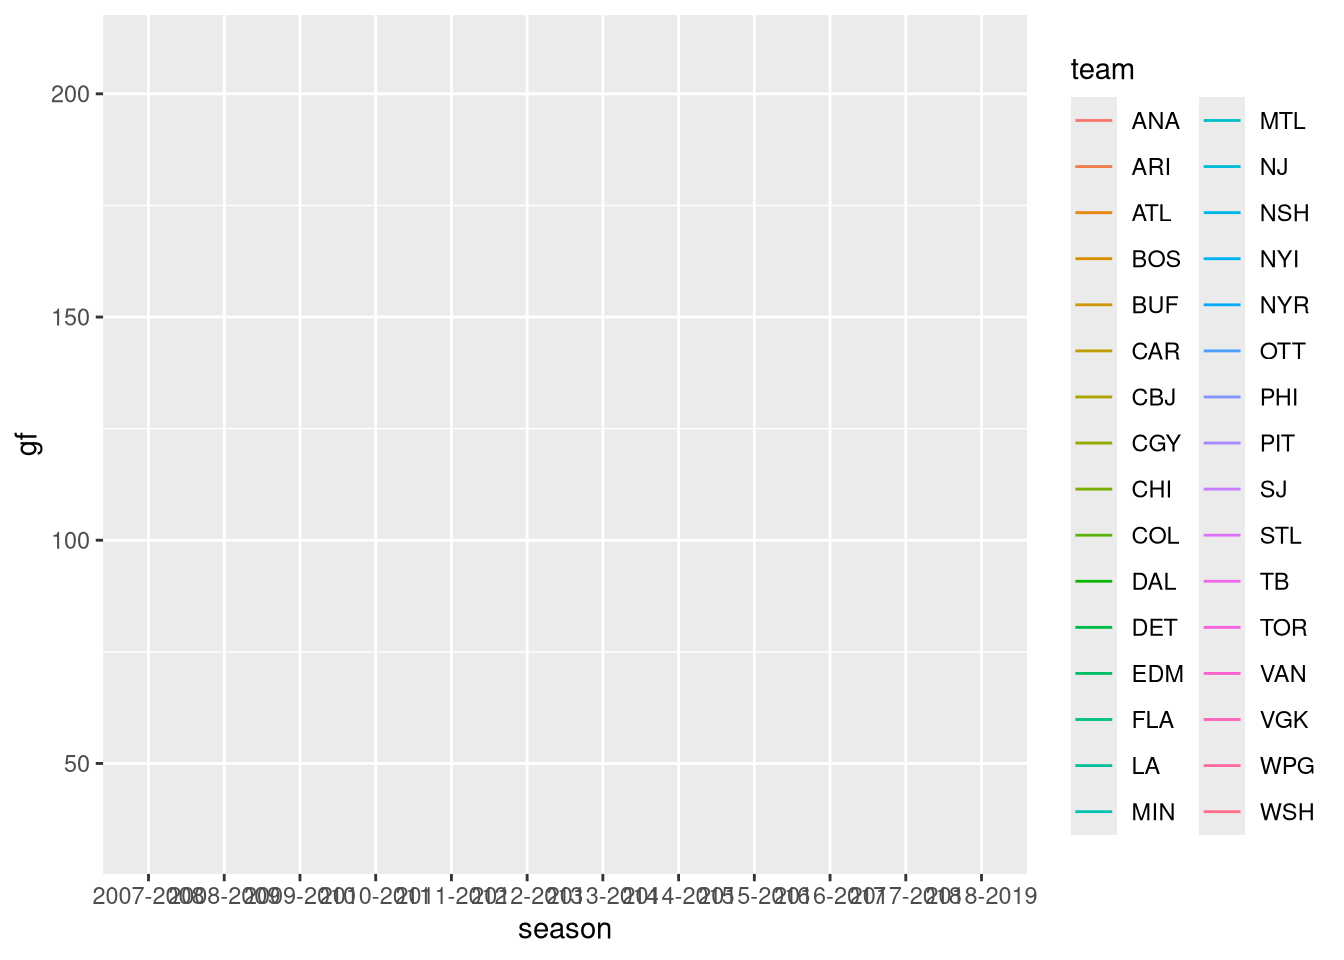
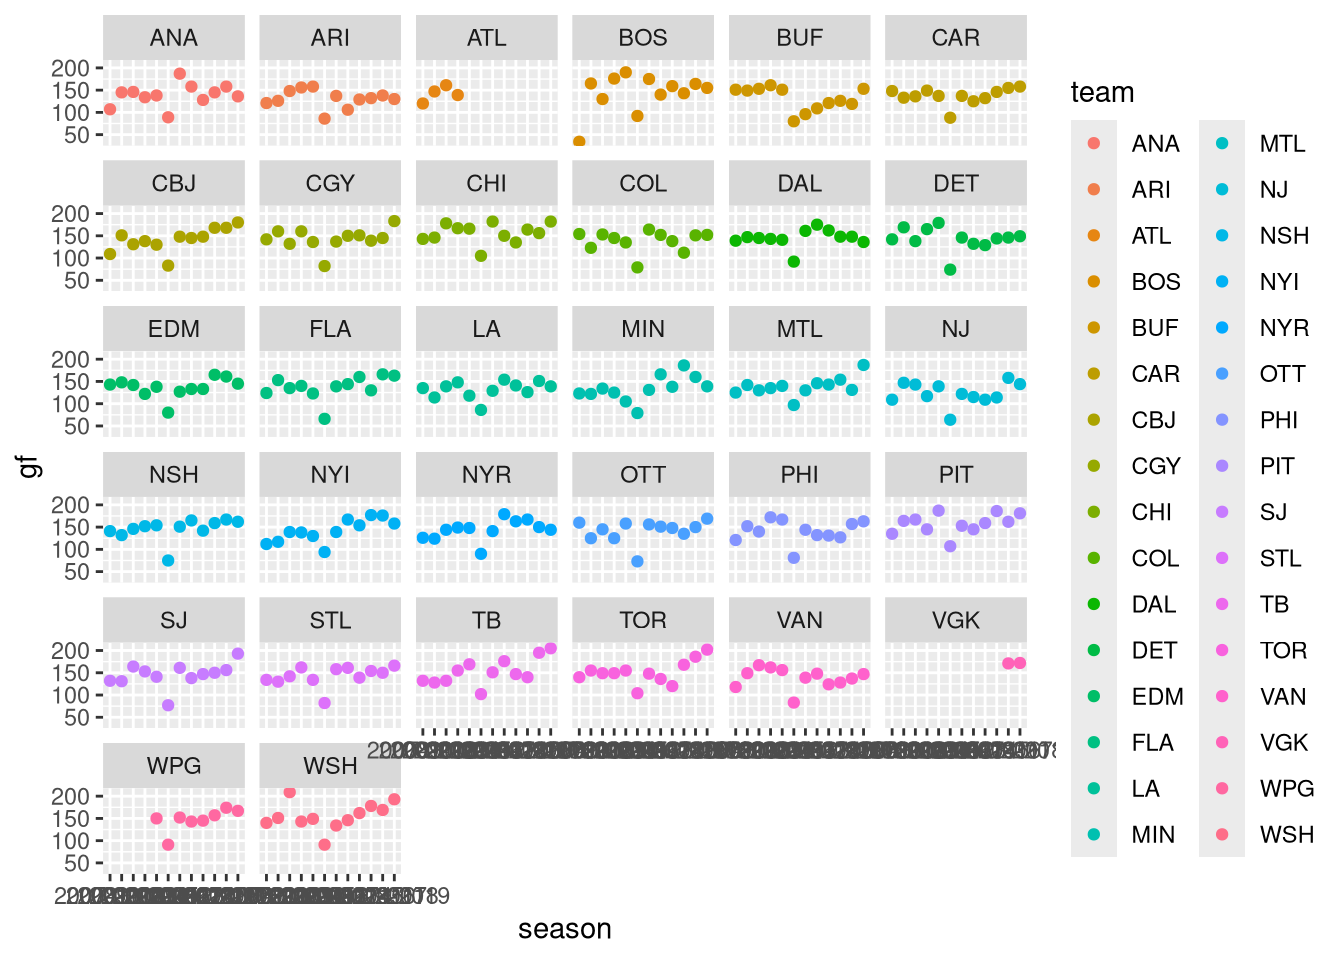
Grouped data working on first plot

diff --git a/docs/Final-Project/NHL-Data.html b/docs/Final-Project/NHL-Data.html
@@ -236,12 +236,49 @@ $ pdo       &lt;dbl&gt; 100.93, 100.82, 100.98, 100.18, 99.65, 101.60, 102.45, 1
 </div>
 </div>
 <div class="cell">
-<div class="sourceCode cell-code" id="cb4"><pre class="sourceCode r code-with-copy"><code class="sourceCode r"><span id="cb4-1"><a href="#cb4-1" aria-hidden="true" tabindex="-1"></a>teams <span class="sc">%&gt;%</span></span>
-<span id="cb4-2"><a href="#cb4-2" aria-hidden="true" tabindex="-1"></a>  <span class="fu">ggplot</span>(<span class="fu">aes</span>(<span class="at">x =</span> season, <span class="at">y =</span> gf, <span class="at">color =</span> team)) <span class="sc">+</span> </span>
-<span id="cb4-3"><a href="#cb4-3" aria-hidden="true" tabindex="-1"></a>    <span class="fu">geom_point</span>() <span class="sc">+</span></span>
-<span id="cb4-4"><a href="#cb4-4" aria-hidden="true" tabindex="-1"></a>    <span class="fu">facet_wrap</span>(<span class="sc">~</span> team)</span></code><button title="Copy to Clipboard" class="code-copy-button"><i class="bi"></i></button></pre></div>
+<details>
+<summary>Code</summary>
+<div class="sourceCode cell-code" id="cb4"><pre class="sourceCode r code-with-copy"><code class="sourceCode r"><span id="cb4-1"><a href="#cb4-1" aria-hidden="true" tabindex="-1"></a>West_conf <span class="ot">&lt;-</span> teams <span class="sc">%&gt;%</span></span>
+<span id="cb4-2"><a href="#cb4-2" aria-hidden="true" tabindex="-1"></a>  <span class="fu">filter</span>(team <span class="sc">%in%</span> <span class="fu">c</span>(<span class="st">"ANA"</span>, <span class="st">"ARI"</span>, <span class="st">"CGY"</span>, <span class="st">"CHI"</span>, <span class="st">"COL"</span>, <span class="st">"DAL"</span>, <span class="st">"EDM"</span>, <span class="st">"LA"</span>, <span class="st">"MIN"</span>, <span class="st">"NSH"</span>, <span class="st">"SJ"</span>, <span class="st">"STL"</span>, <span class="st">"VAN"</span>))</span>
+<span id="cb4-3"><a href="#cb4-3" aria-hidden="true" tabindex="-1"></a></span>
+<span id="cb4-4"><a href="#cb4-4" aria-hidden="true" tabindex="-1"></a>East_conf <span class="ot">&lt;-</span> teams <span class="sc">%&gt;%</span></span>
+<span id="cb4-5"><a href="#cb4-5" aria-hidden="true" tabindex="-1"></a>  <span class="fu">filter</span>(team <span class="sc">%in%</span> <span class="fu">c</span>(<span class="st">"BOS"</span>, <span class="st">"BUF"</span>, <span class="st">"CAR"</span>, <span class="st">"CBJ"</span>, <span class="st">"DET"</span>, <span class="st">"FLA"</span>, <span class="st">"MTL"</span>, <span class="st">"NJ"</span>, <span class="st">"NYI"</span>, <span class="st">"NYR"</span>, <span class="st">"OTT"</span>, <span class="st">"PHI"</span>, <span class="st">"PIT"</span>, <span class="st">"TB"</span>, <span class="st">"TOR"</span>, <span class="st">"WSH"</span>))</span>
+<span id="cb4-6"><a href="#cb4-6" aria-hidden="true" tabindex="-1"></a></span>
+<span id="cb4-7"><a href="#cb4-7" aria-hidden="true" tabindex="-1"></a>Atlantic_div <span class="ot">&lt;-</span> East_conf <span class="sc">%&gt;%</span></span>
+<span id="cb4-8"><a href="#cb4-8" aria-hidden="true" tabindex="-1"></a>  <span class="fu">filter</span>(team <span class="sc">%in%</span> <span class="fu">c</span>(<span class="st">"BOS"</span>, <span class="st">"BUF"</span>, <span class="st">"DET"</span>, <span class="st">"FLA"</span>, <span class="st">"MTL"</span>, <span class="st">"OTT"</span>, <span class="st">"TB"</span>, <span class="st">"TOR"</span>))</span>
+<span id="cb4-9"><a href="#cb4-9" aria-hidden="true" tabindex="-1"></a></span>
+<span id="cb4-10"><a href="#cb4-10" aria-hidden="true" tabindex="-1"></a>Metro_div <span class="ot">&lt;-</span> East_conf <span class="sc">%&gt;%</span></span>
+<span id="cb4-11"><a href="#cb4-11" aria-hidden="true" tabindex="-1"></a>  <span class="fu">filter</span>(team <span class="sc">%in%</span> <span class="fu">c</span>(<span class="st">"CAR"</span>, <span class="st">"CBJ"</span>, <span class="st">"NJ"</span>, <span class="st">"NYI"</span>, <span class="st">"NYR"</span>, <span class="st">"PHI"</span>, <span class="st">"PIT"</span>, <span class="st">"WSH"</span>))</span>
+<span id="cb4-12"><a href="#cb4-12" aria-hidden="true" tabindex="-1"></a></span>
+<span id="cb4-13"><a href="#cb4-13" aria-hidden="true" tabindex="-1"></a>Central_div <span class="ot">&lt;-</span> West_conf <span class="sc">%&gt;%</span></span>
+<span id="cb4-14"><a href="#cb4-14" aria-hidden="true" tabindex="-1"></a>  <span class="fu">filter</span>(team <span class="sc">%in%</span> <span class="fu">c</span>(<span class="st">"ARI"</span>, <span class="st">"CHI"</span>, <span class="st">"COL"</span>, <span class="st">"DAL"</span>, <span class="st">"MIN"</span>, <span class="st">"NSH"</span>, <span class="st">"STL"</span>))</span>
+<span id="cb4-15"><a href="#cb4-15" aria-hidden="true" tabindex="-1"></a></span>
+<span id="cb4-16"><a href="#cb4-16" aria-hidden="true" tabindex="-1"></a>Pacific_div <span class="ot">&lt;-</span> West_conf <span class="sc">%&gt;%</span></span>
+<span id="cb4-17"><a href="#cb4-17" aria-hidden="true" tabindex="-1"></a>  <span class="fu">filter</span>(team <span class="sc">%in%</span> <span class="fu">c</span>(<span class="st">"ANA"</span>, <span class="st">"CGY"</span>, <span class="st">"EDM"</span>, <span class="st">"LA"</span>, <span class="st">"SJ"</span>, <span class="st">"VAN"</span>))</span></code><button title="Copy to Clipboard" class="code-copy-button"><i class="bi"></i></button></pre></div>
+</details>
+</div>
+<div class="cell">
+<div class="sourceCode cell-code" id="cb5"><pre class="sourceCode r code-with-copy"><code class="sourceCode r"><span id="cb5-1"><a href="#cb5-1" aria-hidden="true" tabindex="-1"></a>Central_div <span class="sc">%&gt;%</span></span>
+<span id="cb5-2"><a href="#cb5-2" aria-hidden="true" tabindex="-1"></a>  <span class="fu">filter</span>(season <span class="sc">!=</span> <span class="st">"2012-2013"</span>) <span class="sc">%&gt;%</span></span>
+<span id="cb5-3"><a href="#cb5-3" aria-hidden="true" tabindex="-1"></a>  <span class="fu">ggplot</span>(<span class="fu">aes</span>(<span class="at">x =</span> season, <span class="at">y =</span> gf, <span class="at">color =</span> team)) <span class="sc">+</span> </span>
+<span id="cb5-4"><a href="#cb5-4" aria-hidden="true" tabindex="-1"></a>    <span class="fu">geom_point</span>() <span class="sc">+</span></span>
+<span id="cb5-5"><a href="#cb5-5" aria-hidden="true" tabindex="-1"></a>    <span class="fu">geom_line</span>(<span class="fu">aes</span>(<span class="at">group =</span> team)) <span class="sc">+</span></span>
+<span id="cb5-6"><a href="#cb5-6" aria-hidden="true" tabindex="-1"></a>    <span class="fu">geom_smooth</span>() <span class="sc">+</span> </span>
+<span id="cb5-7"><a href="#cb5-7" aria-hidden="true" tabindex="-1"></a>    <span class="fu">theme_bw</span>() <span class="sc">+</span> </span>
+<span id="cb5-8"><a href="#cb5-8" aria-hidden="true" tabindex="-1"></a>    <span class="fu">theme</span>(<span class="at">axis.text.x =</span> <span class="fu">element_text</span>(<span class="at">angle =</span> <span class="dv">90</span>))</span></code><button title="Copy to Clipboard" class="code-copy-button"><i class="bi"></i></button></pre></div>
+<div class="cell-output cell-output-stderr">
+<pre><code>`geom_smooth()` using method = 'loess' and formula = 'y ~ x'</code></pre>
+</div>
 <div class="cell-output-display">
-<p><img src="NHL-Data_files/figure-html/unnamed-chunk-3-1.png" class="img-fluid" width="672"></p>
+<p><img src="NHL-Data_files/figure-html/unnamed-chunk-4-1.png" class="img-fluid" width="672"></p>
+</div>
+</div>
+<div class="cell">
+<div class="sourceCode cell-code" id="cb7"><pre class="sourceCode r code-with-copy"><code class="sourceCode r"><span id="cb7-1"><a href="#cb7-1" aria-hidden="true" tabindex="-1"></a>teams <span class="sc">%&gt;%</span></span>
+<span id="cb7-2"><a href="#cb7-2" aria-hidden="true" tabindex="-1"></a>  <span class="fu">ggplot</span>(<span class="fu">aes</span>(<span class="at">x =</span> season, <span class="at">y =</span> gf, <span class="at">color =</span> team)) <span class="sc">+</span> </span>
+<span id="cb7-3"><a href="#cb7-3" aria-hidden="true" tabindex="-1"></a>    <span class="fu">geom_point</span>()</span></code><button title="Copy to Clipboard" class="code-copy-button"><i class="bi"></i></button></pre></div>
+<div class="cell-output-display">
+<p><img src="NHL-Data_files/figure-html/unnamed-chunk-5-1.png" class="img-fluid" width="672"></p>
 </div>
 </div>
 
